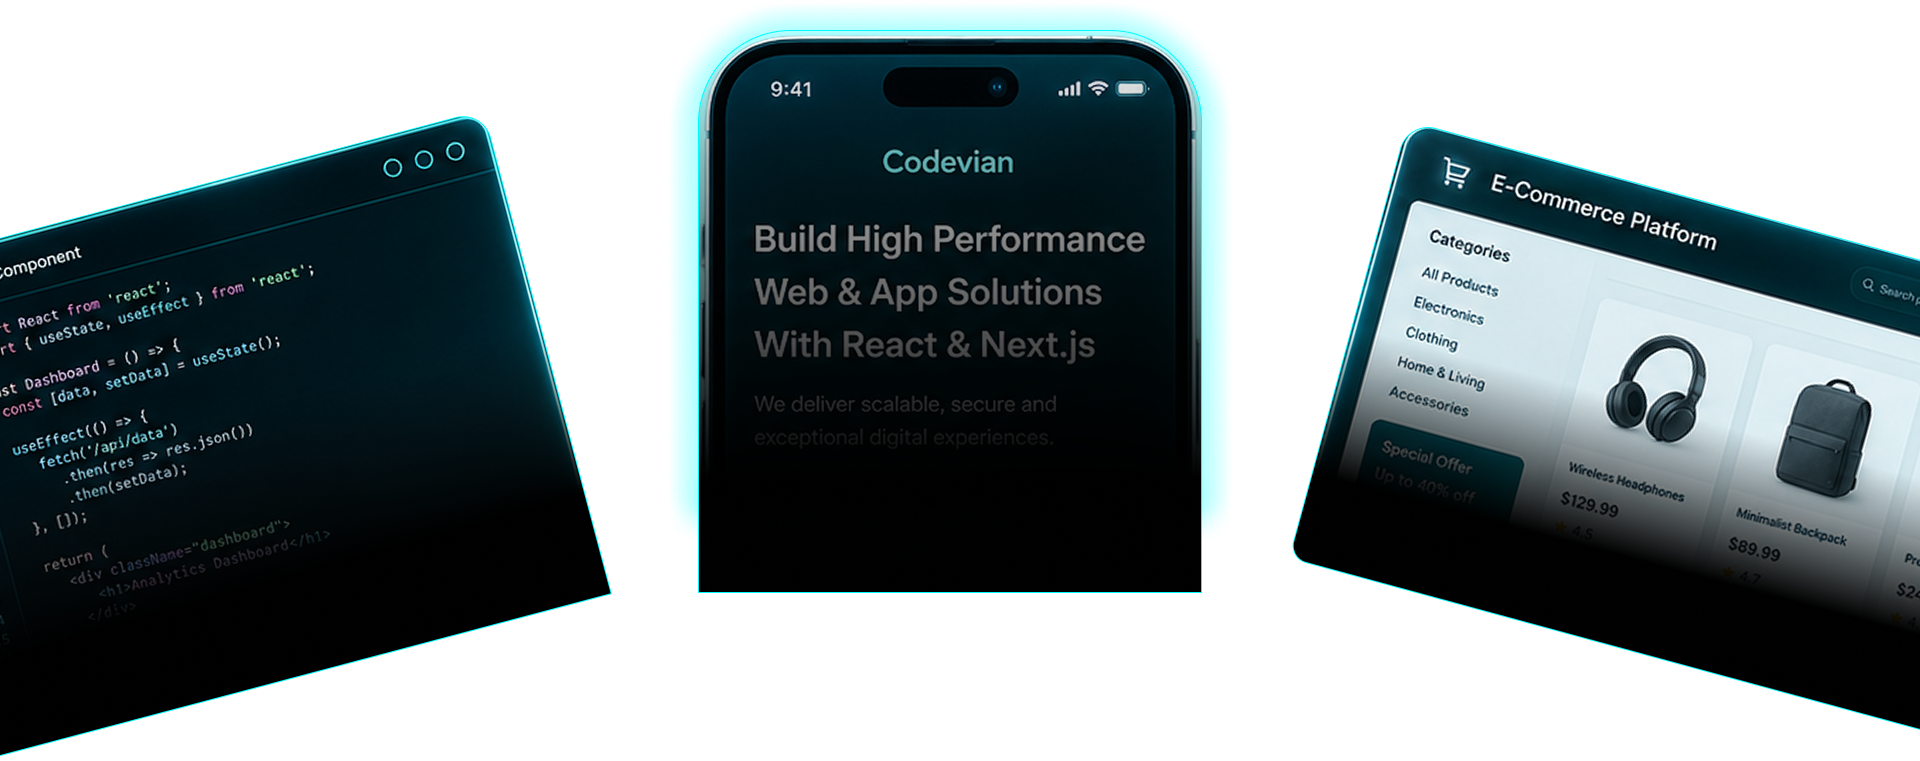
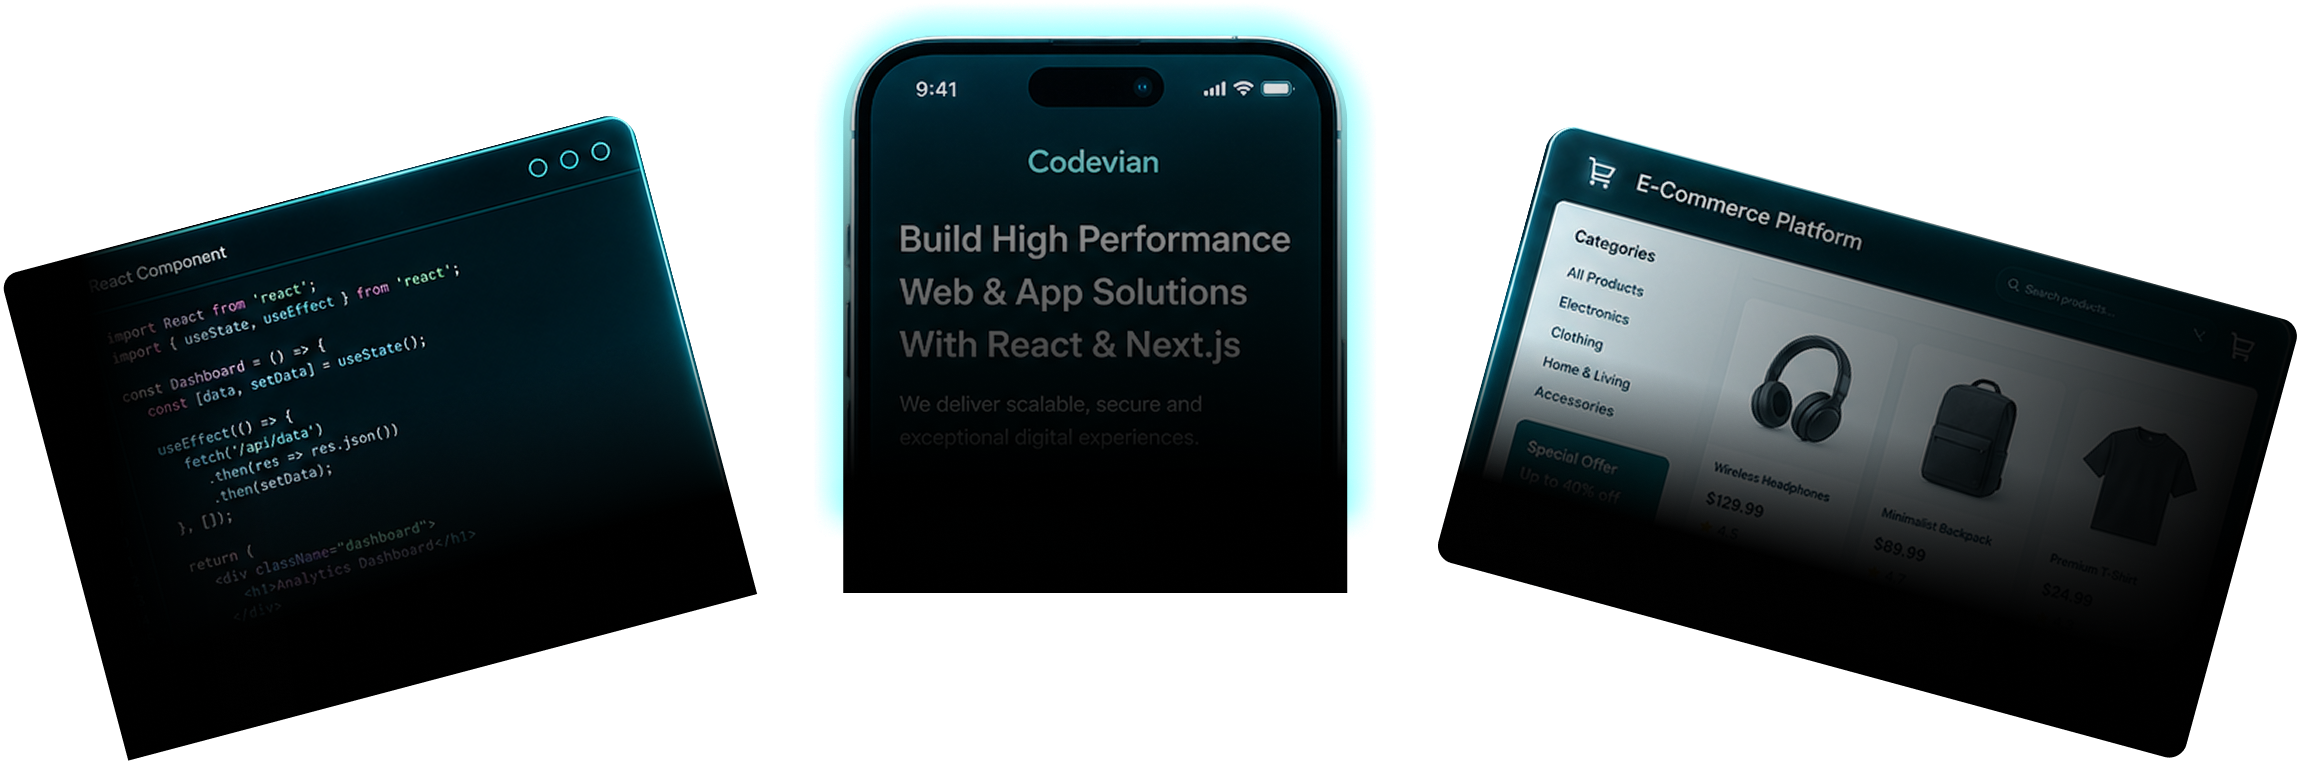
TechzunoSingle Second Push

diff --git a/Footer.jsx b/Footer.jsx
@@ -1,0 +1,133 @@
+// import Assets from "../src/assets/Assets";
+import { Icon } from "@iconify/react";
+import { MapPin } from "lucide-react";
+import Assets from "./src/assets/Assets";
+
+export default function Footer() {
+  return (
+    <footer className="bg-black text-white pb-16 border-t pt-14">
+      <div className="px-62 mx-auto grid grid-cols-1 md:grid-cols-5 gap-8">
+        <div className="col-span-1 md:col-span-2">
+          <div className="flex items-center gap-2 mb-6">
+            <img src={Assets.TechzunoLogo} alt="Techzuno" />
+          </div>
+          <p className="text-white/80 text-lg mb-2">
+            <span className="flex gap-1">
+              <Icon icon="lsicon:location-outline" classname="text-[#B8FAFF]" />
+              12/1A SD Christopher Road
+              <br /> Bidhannagar South Kolkata -<br /> 700010
+            </span>
+          </p>
+          <p className="text-white/80 text-lg mb-2 flex items-center gap-1">
+            <Icon
+              icon="material-symbols-light:call-outline-sharp"
+              classname="text-[#B8FAFF]"
+            />
+            P. [phone redacted]
+          </p>
+          <p className="text-white/80 text-lg flex items-center gap-1">
+            <Icon
+              icon="material-symbols-light:mail-outline-sharp"
+              classname="text-[#B8FAFF]"
+            />
+            E. [email redacted]
+          </p>
+        </div>
+
+        <div>
+          <h4 className="font-semibold mb-4">Company</h4>
+          <ul className="space-y-2 text-sm text-white/80">
+            <li>
+              <a href="/about" className="hover:text-cyan-400 underline">
+                About
+              </a>
+            </li>
+            <li>
+              <a href="/services" className="hover:text-cyan-400 underline">
+                Services
+              </a>
+            </li>
+            <li>
+              <a href="/blog" className="hover:text-cyan-400 underline">
+                Blog
+              </a>
+            </li>
+          </ul>
+        </div>
+
+        <div>
+          <h4 className="font-semibold mb-4">Services</h4>
+          <ul className="space-y-3 text-sm text-white/80">
+            <li>
+              <a href="/services/mobile-apps" className="hover:text-cyan-400 underline">
+                ios/Android app
+              </a>
+            </li>
+            <li>
+              <a href="/services/web" className="hover:text-cyan-400 underline">
+                Web  Development
+              </a>
+            </li>
+            <li>
+              <a href="/services/app" className="hover:text-cyan-400 underline">
+                App Development
+              </a>
+            </li>
+            <li>
+              <a href="/services/design" className="hover:text-cyan-400 underline">
+                UI/UX Design
+              </a>
+            </li>
+            <li>
+              <a href="/services/ecom" className="hover:text-cyan-400 underline">
+                E-Commerce
+              </a>
+            </li>
+            <li>
+              <a href="/services/seo" className="hover:text-cyan-400 underline">
+                SEO & Performence Optimization
+              </a>
+            </li>
+            <li>
+              <a href="/services/business" className="hover:text-cyan-400 underline">
+                Business Solutions
+              </a>
+            </li>
+          </ul>
+        </div>
+
+        <div>
+          <h4 className="font-semibold mb-4">Support</h4>
+          <ul className="space-y-2 text-sm text-white/80">
+            <li>
+              <a href="/services/web" className="hover:text-cyan-400 underline">
+                Help and FAQ
+              </a>
+            </li>
+            <li>
+              <a href="/services/app" className="hover:text-cyan-400 underline">
+                Contact us
+              </a>
+            </li>
+            <li>
+              <a href="/services/design" className="hover:text-cyan-400 underline">
+                Privacy Policy
+              </a>
+            </li>
+            <li>
+              <a href="/services/seo" className="hover:text-cyan-400 underline">
+                Terms and Conditions
+              </a>
+            </li>
+            <li>
+              <a href="/services/seo" className="hover:text-cyan-400 underline">
+                Refund Policy
+              </a>
+            </li>
+          </ul>
+        </div>
+      </div>
+     
+    </footer>
+  );
+}

diff --git a/src/components/Navbar.jsx b/src/components/Navbar.jsx
@@ -9,20 +9,20 @@ const Navbar = () => {
       link: "/",
     },
     {
-      name: "Products",
-      link: "/products",
+      name: "Services",
+      link: "/services",
     },
     {
-      name: "Pricing",
-      link: "/pricing",
+      name: "Advantages",
+      link: "/advantages",
     },
     {
-      name: "Blog",
-      link: "/blog",
+      name: "Portfolio",
+      link: "/portfolio",
     },
     {
-      name: "Contact",
-      link: "/contact",
+      name: "F&Q",
+      link: "/faq",
     },
   ];
 
@@ -39,7 +39,7 @@ const Navbar = () => {
   }, []);
   return (
     <nav className={`fixed top-0 left-0 w-full z-50 lg:px-62 backdrop-blur-[5px] transition-all duration-100
-    ${isScrolled ? "pt-4 pb-2" : "pt-10"}
+    ${isScrolled ? "pt-4 pb-2" : "pt-8"}
     `}>
       <div className=" flex items-center justify-between ">
         <div className="logo h-18 w-auto">
@@ -66,7 +66,7 @@ const Navbar = () => {
         </div>
 
         {/* CTA Button — glass pill */}
-        <button className="glass-border glass-bg px-5 py-2.5 rounded-[48px] text-white text-[13px] font-medium tracking-wide">
+        <button className="glass-border glass-bg px-5 py-2.5 rounded-[48px] text-white text-[13px] font-medium tracking-wide cursor-pointer">
           Book a Consultation
         </button>
       </div>

diff --git a/src/components/AboutHeader.jsx b/src/components/AboutHeader.jsx
@@ -1,0 +1,18 @@
+import Assets from "@/Assets/Assets";
+import Image from "next/image";
+
+export default function AboutHeader() {
+  return (
+    <div className="relative h-40 sm:h-56 md:h-72">
+      <div className="absolute inset-0">
+        <Image src={Assets.AboutBg} alt="Background" className="h-full w-full object-cover" />
+      </div>
+
+      <div className="w-full h-full px-6 sm:px-10 lg:px-62 mx-auto flex justify-center items-center font-semibold relative z-10">
+        <h2 className="text-white text-3xl sm:text-4xl md:text-5xl font-toxigenesis tracking-wider uppercase">
+          About Us
+        </h2>
+      </div>
+    </div>
+  );
+}

diff --git a/src/App.jsx b/src/App.jsx
@@ -5,8 +5,9 @@ import Services from './components/Services';
 import Advantages from './components/Advantages';
 import Portfolio from './components/Portfolio';
 import FAQ from './components/FAQ';
-import Footer from './components/Footer';
+// import Footer from './components/Footer';
 import ScrollToTopBtn from './components/ScrollToTopBtn';
+import Footer from '../Footer';
 
 const App = () => {
   return (
@@ -17,11 +18,12 @@ const App = () => {
       <Services />
       <Advantages />
       {/* 
+      */} 
       <Portfolio />
       <FAQ />
-      */} 
+      {/* <Footer />  */}
+      <Footer />
       {/* 
-      <Footer /> 
       */} 
     </div>
   );

diff --git a/src/components/Hero.jsx b/src/components/Hero.jsx
@@ -48,14 +48,14 @@ const Hero = () => {
           Seamless, scalable &amp; responsive digital solutions tailored to your
           unique needs <br /> using modern tech stacks.
         </p>
-        <button className="glass-border glass-bg px-7 py-4 rounded-[48px] ">
+        <button className="glass-border glass-bg px-7 py-4 cursor-pointer rounded-[48px] ">
             <span className="text-[14px] md:text-[20px] f text-white tracking-[0.04rem]">
               Schedule Your Free Consultation
             </span>
         </button>
       </div>
 
-      <div className="hero bottom mt-30 z-0  relative">
+      <div className="hero bottom mt-32 z-0  relative">
         <img src={Assets.HeroFooter} alt="hero-mockup" />
         {/* <div className="absolute bottom-0 left-0 w-full border h-[30%] bg-linear-to-right from-transparent via-black/5 via-black/60 to-black/95"></div> */}
       </div>

diff --git a/src/components/Advantages.jsx b/src/components/Advantages.jsx
@@ -69,7 +69,7 @@ const Advantages = () => {
           })}
         </div>
         <div className="mx-auto pt-16">
-          <button className="px-5 py-2 rounded-full font-semibold bg-white text-black text-xs tracking-wider hover:bg-cyan-400 hover:text-white transition-colors">
+          <button className="px-5 py-2 rounded-full font-semibold bg-white text-black text-xs cursor-pointer tracking-wider hover:bg-[#00B5B5] hover:text-white transition-colors">
             Book Your Call
           </button>
         </div>

diff --git a/src/components/FAQ.jsx b/src/components/FAQ.jsx
@@ -56,7 +56,7 @@ const FAQ = () => {
               className="glass-bg glass-border rounded-2xl overflow-hidden "
             >
               <button
-                className="w-full px-8 py-5 flex justify-between items-center focus:outline-none transition-colors"
+                className="w-full px-8 py-5 flex justify-between cursor-pointer items-center focus:outline-none transition-colors"
                 onClick={() => setActiveIndex(activeIndex === idx ? -1 : idx)}
               >
                 <span className="text-left font-normal text-[22px] text-white/90 tracking-wide">

diff --git a/src/components/GlowHeaderBtn.jsx b/src/components/GlowHeaderBtn.jsx
@@ -3,7 +3,7 @@ import React from 'react';
 const GlowHeaderBtn = ({ text, additionalClassName = '' }) => {
   return (
     <button 
-      className={`text-transparent leading-[1.2] tracking-tighter text-5xl bg-clip-text bg-linear-to-r from-gray-900 via-white to-gray-900 font-semibold ${additionalClassName}`}
+      className={`text-transparent leading-[1.2] tracking-tighter text-5xl bg-clip-text bg-linear-to-r from-gray-900 via-white to-gray-900 cursor-pointer font-semibold ${additionalClassName}`}
     >
       {text}
     </button>

diff --git a/src/components/Services.jsx b/src/components/Services.jsx
@@ -61,7 +61,7 @@ const Services = () => {
                 </h3>
                 <p className="text-slate-300 text-[13px] mb-4.5 px-6">{service.desc}</p>
                 <div>
-                  <button className="px-5 py-2 rounded-full bg-white text-black text-xs tracking-wider hover:bg-cyan-400 hover:text-white transition-colors font-medium">
+                  <button className="px-5 py-2 rounded-full bg-white text-black text-xs tracking-wider cursor-pointer  hover:bg-[#00B5B5] hover:text-white transition-colors font-medium">
                     Book Your Call
                   </button>
                 </div>

diff --git a/src/components/ScrollToTopBtn.jsx b/src/components/ScrollToTopBtn.jsx
@@ -26,6 +26,7 @@ export default function ScrollToTopBtn() {
       onClick={scrollToTop}
       className={`
         fixed
+        cursor-pointer
         bottom-8
         animate-popIn
         right-8